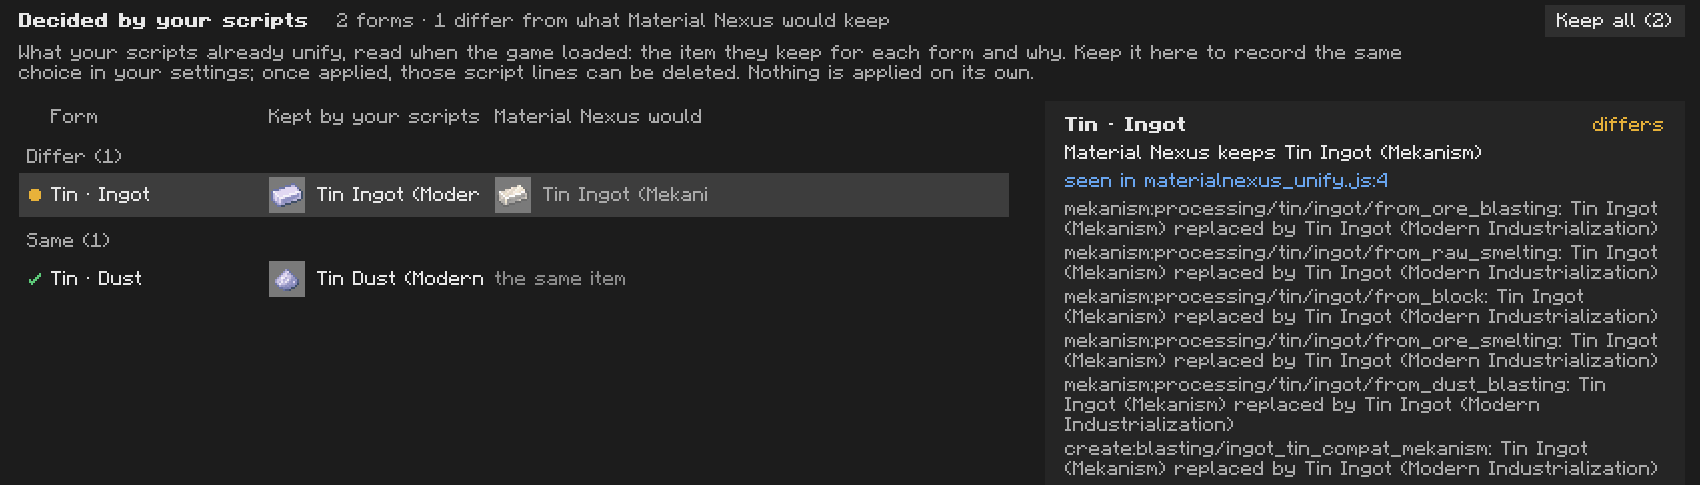
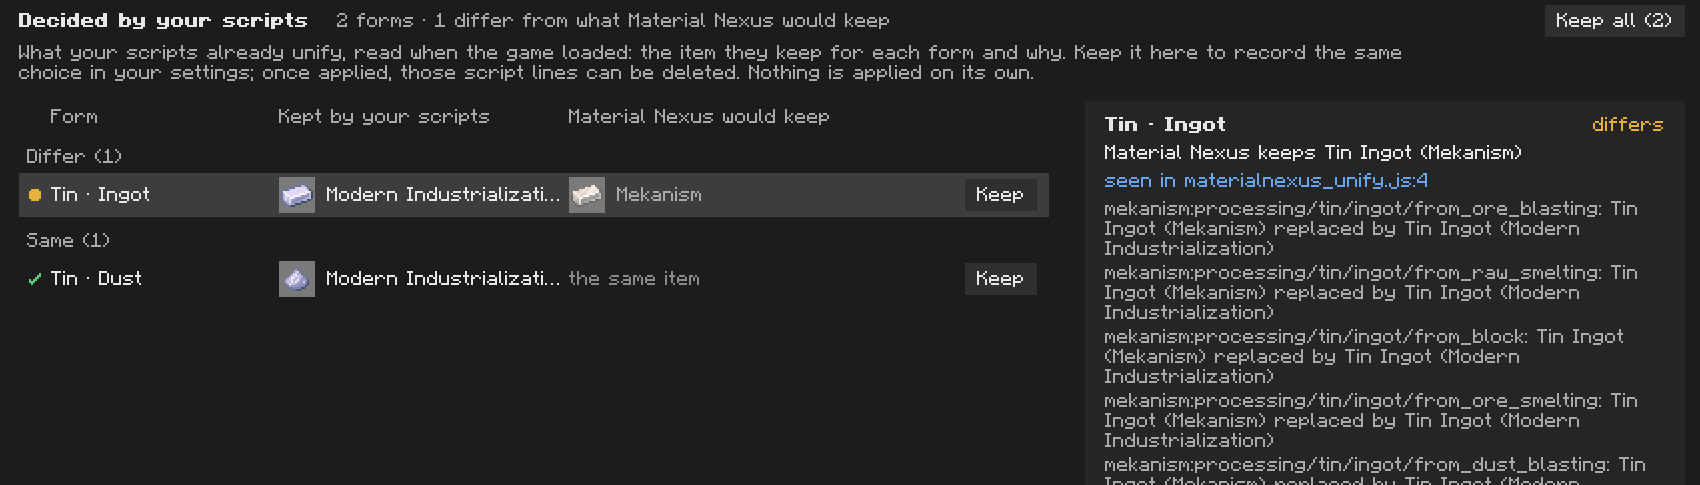
MNX-105: Scripts table names the mod of each item with its Keep button always drawn, recipe type ids of How it's made follow the id setting, route recipe shown in the store image; backlog, roadmap and support backlog brought up to date

diff --git a/src/main/java/dev/drimoz/materialnexus/client/ScriptsPanel.java b/src/main/java/dev/drimoz/materialnexus/client/ScriptsPanel.java
@@ -94,7 +94,7 @@ final class ScriptsPanel {
 
         // Beside the table when there is room, under it otherwise.
         boolean wide = w >= 760;
-        int iw = wide ? 320 : w;
+        int iw = wide ? 300 : w;
         int ih = wide ? y + h - ty : Math.min(120, (y + h - ty) / 2);
         int tw = wide ? w - iw - 12 : w;
         int bottom = wide ? y + h : y + h - ih - 8;
@@ -103,8 +103,8 @@ final class ScriptsPanel {
         }
 
         int c2 = x + Math.clamp(tw / 4, 110, 170);
-        int c3 = c2 + (tw - (c2 - x) - 150) / 2;
-        int c4 = x + tw - 150;
+        int c3 = c2 + (tw - (c2 - x) - 100) / 2;
+        int c4 = x + tw - 100;
         g.drawString(font, tr("col.form"), x + 16, ty + 4, Theme.MUTED, false);
         g.drawString(font, tr("col.scripts"), c2, ty + 4, Theme.MUTED, false);
         g.drawString(font, font.plainSubstrByWidth(tr("col.ours").getString(), c4 - c3 - 4), c3, ty + 4, Theme.MUTED, false);
@@ -144,27 +144,30 @@ final class ScriptsPanel {
         Component title = Component.translatable("screen.materialnexus.triage.item", Names.material(r.material()), Names.form(r.form()));
         g.drawString(font, font.plainSubstrByWidth(title.getString(), c2 - x - 20), x + 16, ry + 7, Theme.TEXT, false);
         r.kept().ifPresent(item -> {
+            // The form is named in the first column: what tells two items apart here is the mod.
             Ui.slot(g, item, c2, ry + 2, 0, false);
-            g.drawString(font, font.plainSubstrByWidth(Names.withMod(item).getString(), c3 - c2 - 28), c2 + 24, ry + 7, Theme.TEXT, false);
+            g.drawString(font, Ui.fit(font, NexusScreen.modName(item.getNamespace()), c3 - c2 - 28), c2 + 24, ry + 7, Theme.TEXT, false);
         });
         if (r.status() == Status.DIFFERS) {
             if (r.current().isPresent()) {
                 Ui.slot(g, r.current().get(), c3, ry + 2, 0, false);
-                g.drawString(font, font.plainSubstrByWidth(Names.withMod(r.current().get()).getString(), c4 - c3 - 28), c3 + 24, ry + 7, Theme.MUTED, false);
+                g.drawString(font, Ui.fit(font, NexusScreen.modName(r.current().get().getNamespace()), c4 - c3 - 28), c3 + 24, ry + 7, Theme.MUTED, false);
             } else {
                 g.drawString(font, tr("current_none"), c3, ry + 7, Theme.MUTED, false);
             }
         } else if (r.status() == Status.SAME || r.status() == Status.RECORDED) {
             g.drawString(font, tr("same_item"), c3, ry + 7, Theme.FAINT, false);
         }
-        if (!inList) return;
-        hits.add(x, ry, tw - 6, ROW, () -> selected = r, null, List.of());
+        if (inList) hits.add(x, ry, tw - 6, ROW, () -> selected = r, null, List.of());
         if (readOnly || !offered(r)) return;
         if (pending(r)) {
             g.drawString(font, Ui.Status.PENDING.label(), c4, ry + 7, Theme.INFO, false);
         } else {
+            // Always drawn: an action that only appears under the pointer is a hidden one. Clickable only inside the list.
             Component keep = tr("keep");
-            button(g, font, keep, x + tw - 12 - font.width(keep) - 12, ry + 3, mx, my, () -> keep(r));
+            int bx = x + tw - 12 - font.width(keep) - 12;
+            if (inList) button(g, font, keep, bx, ry + 3, mx, my, () -> keep(r));
+            else Ui.button(g, font, keep, bx, ry + 3, font.width(keep) + 12, 16, false, false, true);
         }
     }
 

diff --git a/src/main/java/dev/drimoz/materialnexus/client/ProcessPanel.java b/src/main/java/dev/drimoz/materialnexus/client/ProcessPanel.java
@@ -191,7 +191,9 @@ final class ProcessPanel {
             String name = machine(entry.getKey());
             if (ly + 16 > foundTop && ly < bottom) {
                 g.drawString(font, name, x + 6, ly + 4, Theme.TEXT, false);
-                g.drawString(font, font.plainSubstrByWidth(" · " + NexusScreen.modName(entry.getKey().getNamespace()) + "   " + entry.getKey(), width - 20 - font.width(name)),
+                g.drawString(font, font.plainSubstrByWidth(" · " + NexusScreen.modName(entry.getKey().getNamespace())
+                                // MNX-101: the recipe type id is a technical id, shown with the setting.
+                                + (dev.drimoz.materialnexus.client.ui.ScreenSettings.get().showIds() ? "   " + entry.getKey() : ""), width - 20 - font.width(name)),
                         x + 6 + font.width(name), ly + 4, Theme.FAINT, false);
             }
             ly += 16;

diff --git a/src/main/java/dev/drimoz/materialnexus/client/Ui.java b/src/main/java/dev/drimoz/materialnexus/client/Ui.java
@@ -80,6 +80,11 @@ final class Ui {
         return w;
     }
 
+    /** {@code text} cut to {@code width} with an ellipsis, so a cut name never reads as a whole one. */
+    static String fit(Font font, String text, int width) {
+        return font.width(text) <= width ? text : font.plainSubstrByWidth(text, Math.max(0, width - font.width("…"))) + "…";
+    }
+
     /** A flat button drawn by a panel that handles its own clicks; {@code primary} is the view's main action. */
     static void button(GuiGraphics g, Font font, Component label, int x, int y, int w, int h, boolean primary, boolean over, boolean active) {
         int fill = !active ? Theme.RAISED : primary ? (over ? Theme.mix(Theme.ACCENT, Theme.TEXT, 0.18f) : Theme.ACCENT) : over ? Theme.SEL : Theme.RAISED;

diff --git a/tools/Banners.java b/tools/Banners.java
@@ -63,7 +63,7 @@ public class Banners {
         screen(shots, out, "screen_recipes", "mnx_18_recipe_hover", 570, 270, 1915, 1000);
         screen(shots, out, "screen_matrix", "mnx_3_matrix", 215, 48, 925, 760);
         screen(shots, out, "screen_triage", "mnx_7_triage", 225, 60, 1340, 420);
-        screen(shots, out, "screen_process", "mnx_17_route_hover", 215, 55, 1065, 820);
+        screen(shots, out, "screen_process", "mnx_17_route_hover", 215, 55, 1065, 890);
         screen(shots, out, "screen_preview", "mnx_6_preview", 1065, 48, 1915, 420);
         screen(shots, out, "screen_presets", "mnx_9_presets", 675, 55, 1915, 540);
         screen(shots, out, "screen_pending", "mnx_10_pending", 1065, 48, 1915, 360);

diff --git a/src/main/java/dev/drimoz/materialnexus/client/UiShots.java b/src/main/java/dev/drimoz/materialnexus/client/UiShots.java
@@ -33,7 +33,7 @@ public final class UiShots {
             new Step(562, "form", "rod", ""),
             new Step(700, "process", "", ""),
             new Step(800, "", "", "mnx_5_process"),
-            new Step(801, "mouse", "180,278", ""),
+            new Step(801, "mouse", "180,296", ""),
             new Step(803, "", "", "mnx_17_route_hover"),
             new Step(804, "mouse", "", ""),
             new Step(805, "forms_tab", "", ""),

diff --git a/docs/21-SUPPORT-BACKLOG.md b/docs/21-SUPPORT-BACKLOG.md
@@ -2,10 +2,26 @@
 
 Feedback received after the 0.2.0 release, analysed on 2026-10-10. Each entry keeps the raw message, what
 the code already does, the cause or gap, and the proposed work, so nothing has to be analysed twice.
-Ticket ids are proposals: none is started, none is in `14-BACKLOG.md` yet.
+Ticket ids were proposals at the time; what became of each is in **Status** below, and they are now in `14-BACKLOG.md`.
 
 Analysis was done by reading code, docs and the store captures. **Nothing was run in game**: every
 "to confirm" below is a real open point.
+
+## Status (2026-10-13)
+
+All of it is merged in `main` (NeoForge 1.21.1). **Nothing is ported to `forge-1.20.1` yet**, the version the tester
+plays: that port is the next step for this feedback to reach them.
+
+| ID | State |
+|---|---|
+| MNX-086 | Done: the name rule needs membership; "It is the same item" overrules a guess (`same` in `global.json`). |
+| MNX-087 | Done: Start block at the top of the store page, "I want to..." table and FAQ entries in the wiki. To do by hand: paste the description on CurseForge and Modrinth. |
+| MNX-088 | Done, differently: recipes are drawn by JEI or EMI (inspector and next to the pointer, Recipes and How it is made), with the replaced item struck next to the kept one. No renderer of our own. |
+| MNX-089 | Done as the UI redesign (MNX-093 to MNX-104, `22-UI-REDESIGN.md`). Still to ask the tester for the three moments they got stuck. |
+| MNX-090 | Partly: `/materials report` ranks the recipe types no format covers. Thermal and Tinkers have no NeoForge 1.21.1 build on Modrinth: they wait for the 1.20.1 port. |
+| MNX-091 | Done, differently: `config/materialnexus/textures/<material>_<form>.png` (resource packs are not loaded yet when the models are written). |
+| MNX-092 | Done: "Declare tag folder" in Rule files, Untagged forms. |
+| Free groups | Still parked. |
 
 ## Context to keep in mind
 

diff --git a/docs/14-BACKLOG.md b/docs/14-BACKLOG.md
@@ -47,3 +47,11 @@
 | MNX-079 | P1 | Tag edits | `tag_edits` per material/form: Shift + right click takes an item out of its form tag, Data view adds one by id; discovery and resolution follow (ADR-024) |
 | MNX-080 | P2 | Tag diagnostics | `/materials report` "Tags": tags items lack (what Add missing tags writes), recipes asking for an empty material tag, recipes asking for `c:` tags |
 | MNX-081 | P2 | Forms removable as data | `remove_folders` in material_nexus/forms: a folder (built-in or declared) is no longer read |
+| MNX-086 | P0 | Guesses the player can overrule | An item is "named after" a material only when tagged as it; "It is the same item" makes an item left alone on a guess a candidate again |
+| MNX-087 | P0 | Store and wiki entry points | How to open the screen and the links at the top of the store page; wiki home by need |
+| MNX-088 | P1 | Recipes drawn by the viewer | JEI or EMI draws the recipe in the inspector and next to the pointer; no renderer of our own; safe with no viewer |
+| MNX-089 | P1 | Screen legibility | Covered by the UI redesign, MNX-093 to MNX-104 (docs/22) |
+| MNX-090 | P1 | Compat by evidence | `/materials report` ranks unhandled recipe types by recipes naming a material item; Thermal with the 1.20.1 port |
+| MNX-091 | P2 | Texture by file name | `config/materialnexus/textures/<material>_<form>.png` is used for a created item, nothing declared |
+| MNX-092 | P2 | Tag folder as a form | Declared from Rule files, written in the declared patterns file, applied like any change |
+| MNX-093..104 | P1 | UI redesign | Theme roles, shell, tables with inspector, review panel, settings; captures and wiki regenerated (docs/22, docs/07) |

diff --git a/docs/13-ROADMAP.md b/docs/13-ROADMAP.md
@@ -50,13 +50,13 @@ V1 delivers a usable GUI from the start (decision: grilling session 2026-10-05).
 - [x] Create (processing recipe outputs and inputs; sequenced assembly unsupported)
 - [x] Mekanism (item outputs and inputs of machine recipes; chemicals untouched)
 - [x] Immersive Engineering (machine recipes incl. nested secondaries)
-- [ ] Thermal
+- [ ] Thermal (no NeoForge 1.21.1 build: with the 1.20.1 port, MNX-090)
 
 ## Phase 5 — V2 / pack author polish
 
 - [ ] recipe editor
-- [ ] dashboard with counts
-- [ ] Loot and JEI/EMI tabs
+- [x] dashboard with counts (the Overview, MNX-096)
+- [ ] Loot tab (recipes are drawn by JEI/EMI in the Recipes tab, MNX-088)
 - [x] presets (data-driven, 5 shipped, applied through Preview / Apply / Revert)
 - [ ] import/export policy
 - [x] diagnostics report (`/materials report` -> config/materialnexus/report.md)
@@ -64,4 +64,4 @@ V1 delivers a usable GUI from the start (decision: grilling session 2026-10-05).
 - [x] KubeJS optional API (read-only bindings, MNX-067)
 - [x] decisions found in scripts proposed as choices (MNX-076, docs/20)
 - [x] script lines of each decision shown ("seen in", MNX-077)
-- [ ] documentation/wiki
+- [x] documentation/wiki (docs/wiki, published to the GitHub wiki)
